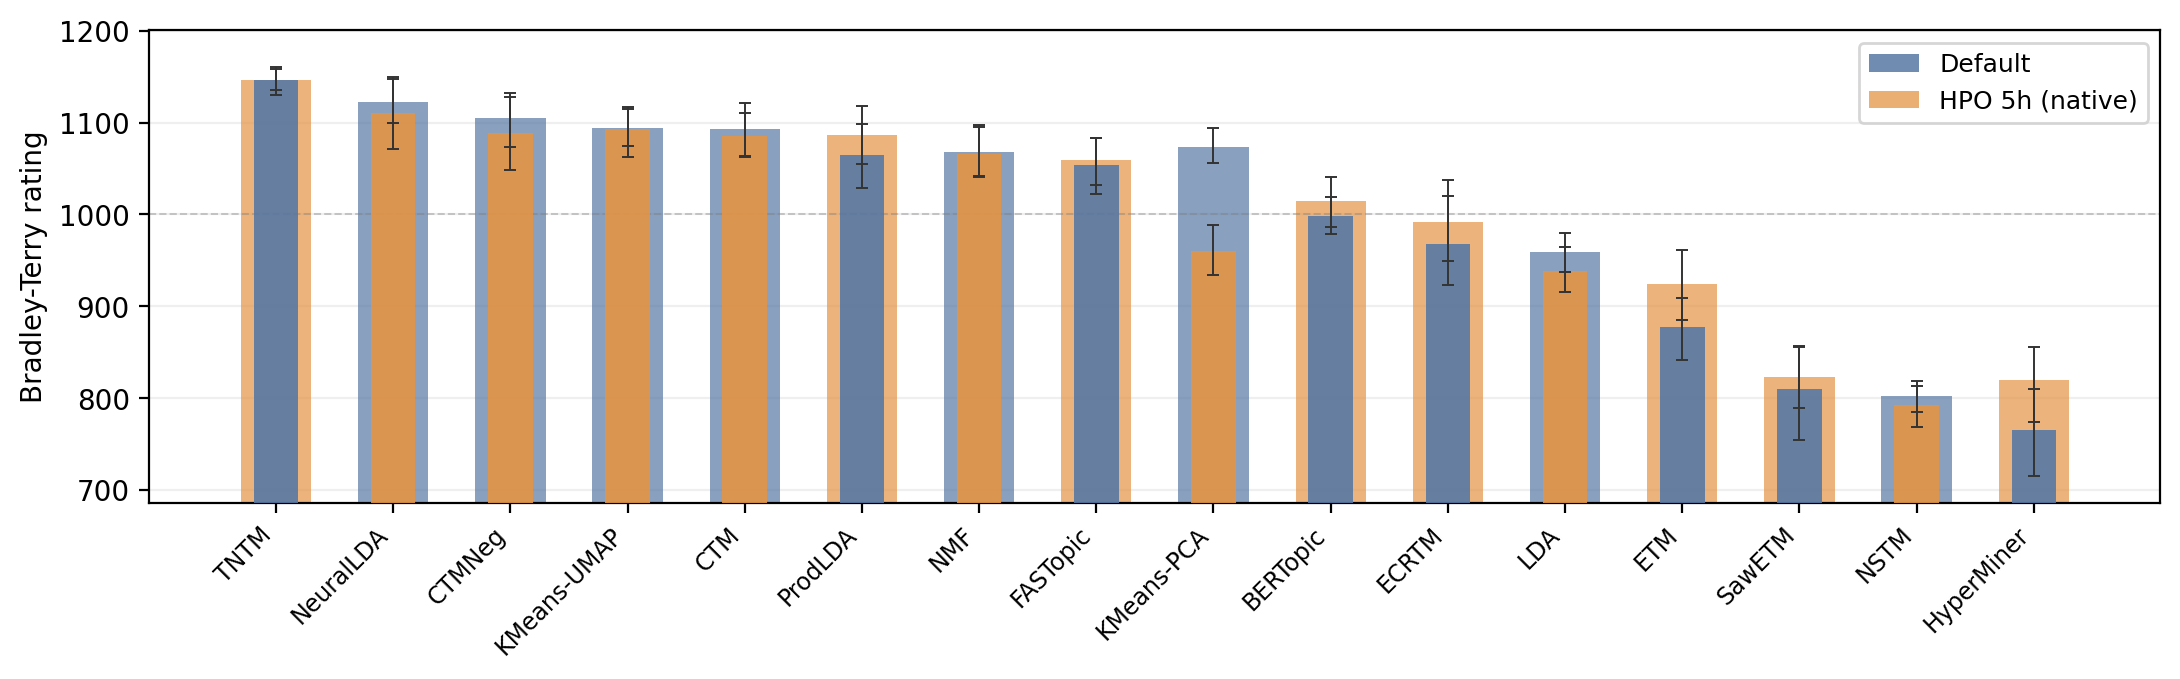
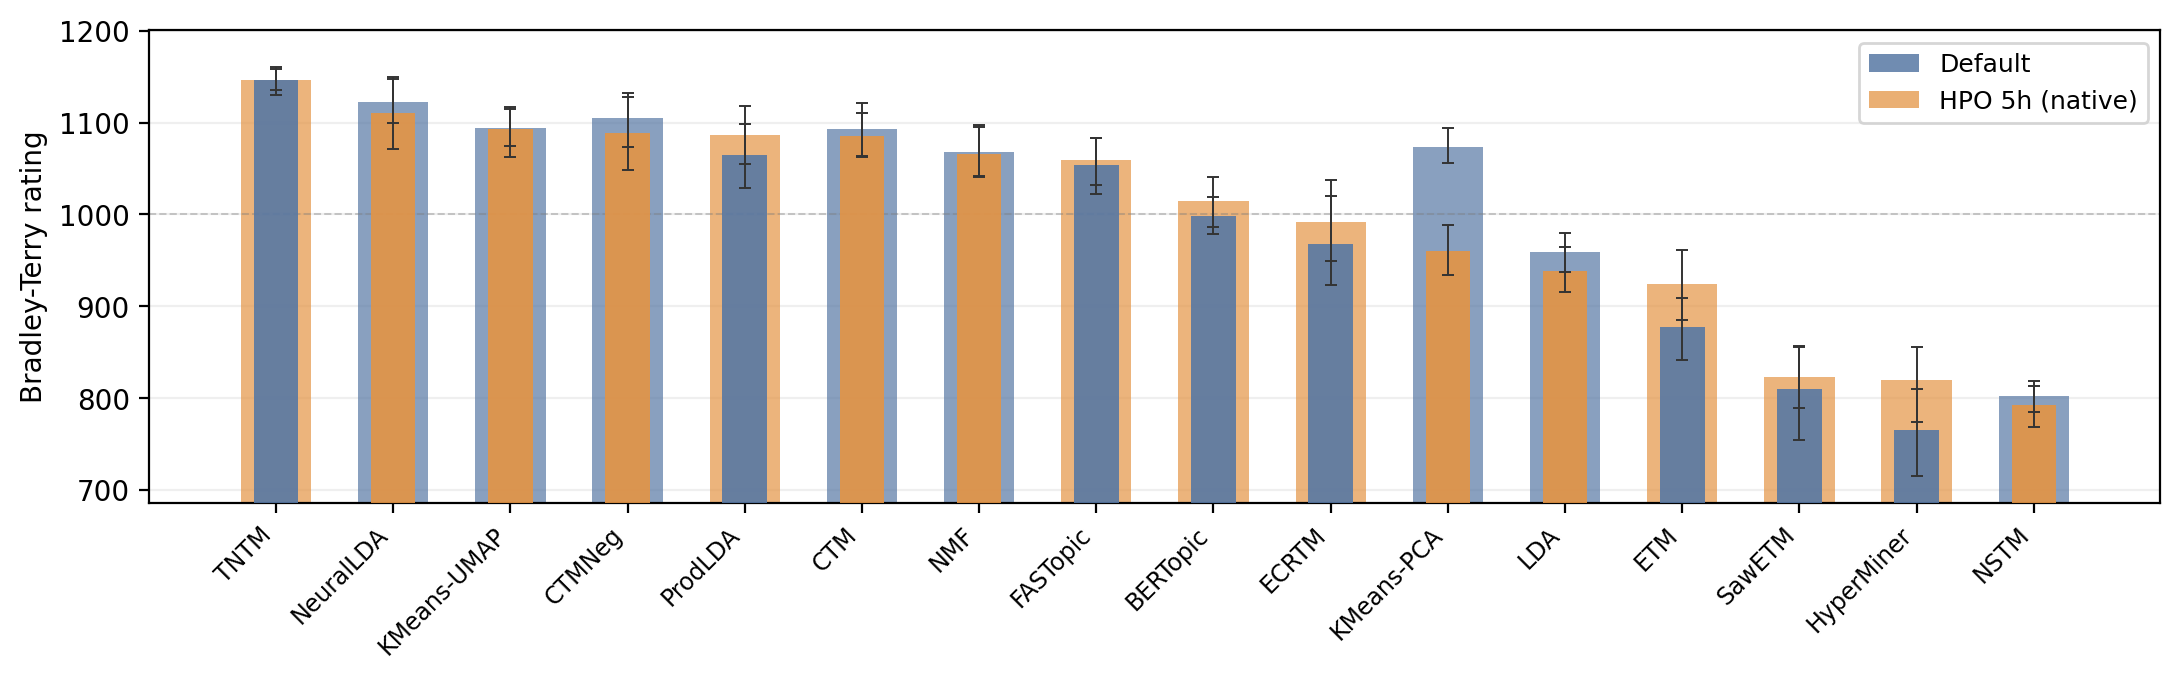
README: order BT plots by HPO performance (L-to-R), add embedding-swap Bradley-Terry plot
- bt_default_vs_v7/v8 now ordered by the HPO variant's rating (best first)
- add bt_default_vs_embedding: 16-model BT, MiniLM vs gtr-t5-xl (default runs, 8 automated metrics)

diff --git a/README.md b/README.md
@@ -104,6 +104,15 @@ conclusions:
   unchanged. Encoder choice affects *reproducibility* (fix and report it), not the
   ranking.
 
+<div align="center">
+  <img src="./assets/bt_default_vs_embedding.png" width="900"/>
+</div>
+
+  *Bradley–Terry ratings (default runs, 8 automated metrics), baseline
+  `all-MiniLM-L6-v2` vs. the 1.24B `gtr-t5-xl` encoder. The 13 non-embedding models
+  are encoder-invariant by construction; only the three embedding-dependent models
+  can move, and they barely do — the leaderboard is unchanged.*
+
   | Encoder | Params | KMeans-UMAP *Cᵥ* | BERTopic *Cᵥ* | CTM *Cᵥ* |
   |---|---:|---:|---:|---:|
   | all-MiniLM-L6-v2 | 22M | 0.620 | 0.530 | 0.564 |
